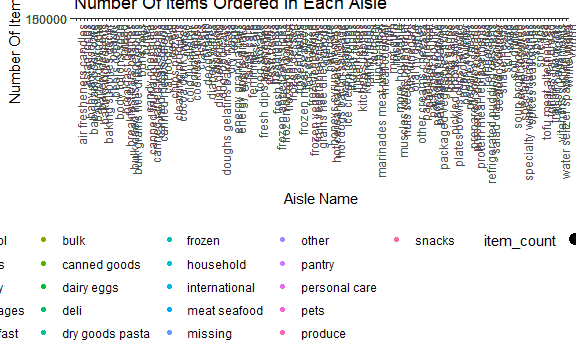
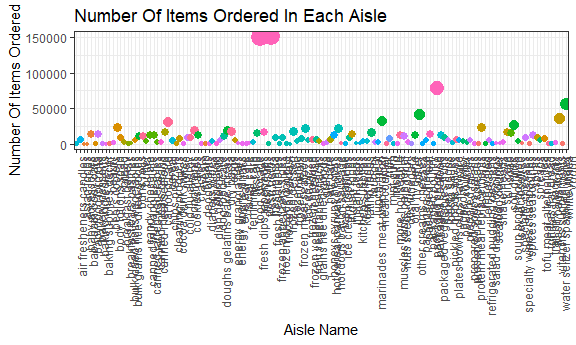
trying to fix plot

diff --git a/p8105_hw3_as5457.md b/p8105_hw3_as5457.md
@@ -10,14 +10,14 @@ Setting global settings for the format of the graphs generated for this homework
 library(tidyverse)
 ```
 
-    ## -- Attaching packages --------------------------------------------------------------------------------- tidyverse 1.2.1 --
+    ## -- Attaching packages ------------------------------------------------------------------- tidyverse 1.2.1 --
 
     ## v ggplot2 3.0.0     v purrr   0.2.5
     ## v tibble  1.4.2     v dplyr   0.7.6
     ## v tidyr   0.8.1     v stringr 1.3.1
     ## v readr   1.1.1     v forcats 0.3.0
 
-    ## -- Conflicts ------------------------------------------------------------------------------------ tidyverse_conflicts() --
+    ## -- Conflicts ---------------------------------------------------------------------- tidyverse_conflicts() --
     ## x dplyr::filter() masks stats::filter()
     ## x dplyr::lag()    masks stats::lag()
 
@@ -274,7 +274,7 @@ insta %>%
     ## 10 bread                              23635
     ## # ... with 124 more rows
 
-Make a plot that shows the number of items ordered in each aisle. Order aisles sensibly, and organize your plot so others can read it.
+**Make a plot that shows the number of items ordered in each aisle. Order aisles sensibly, and organize your plot so others can read it.**
 
 ``` r
 insta %>%
@@ -292,12 +292,12 @@ insta %>%
     title = "Number Of Items Ordered In Each Aisle",
         x = "Aisle Name",
         y = "Number Of Items Ordered"
-  ) + theme(axis.text.x = element_text(angle = 90, hjust = 1), legend.position = "bottom")
+  ) + theme(axis.text.x = element_text(angle = 90, hjust = 1), legend.position = "none")
 ```
 
 <img src="p8105_hw3_as5457_files/figure-markdown_github/unnamed-chunk-11-1.png" width="90%" />
 
-Make a table showing the most popular item in each of the aisles “baking ingredients”, “dog food care”, and “packaged vegetables fruits”.
+**Make a table showing the most popular item in each of the aisles “baking ingredients”, “dog food care”, and “packaged vegetables fruits”.**
 
 ``` r
 insta %>% 
@@ -326,7 +326,7 @@ insta %>%
     ## 2 dog food care       Snack Sticks Chicken & Rice Recip~          30     1
     ## 3 packaged vegetable~ Organic Baby Spinach                      9784     1
 
-Make a table showing the mean hour of the day at which Pink Lady Apples and Coffee Ice Cream are ordered on each day of the week; format this table for human readers (i.e. produce a 2 x 7 table).
+**Make a table showing the mean hour of the day at which Pink Lady Apples and Coffee Ice Cream are ordered on each day of the week; format this table for human readers (i.e. produce a 2 x 7 table).**
 
 ``` r
 insta %>% 
@@ -365,11 +365,11 @@ weather = ny_noaa %>%
   janitor::clean_names(dat = .)
 ```
 
-*The goal is to do some exploration of this dataset. To that end, write a short description of the dataset, noting the size and structure of the data, describing some key variables, and indicating the extent to which missing data is an issue.*
+**The goal is to do some exploration of this dataset. To that end, write a short description of the dataset, noting the size and structure of the data, describing some key variables, and indicating the extent to which missing data is an issue.**
 
 The NY NOAA dataset provides information regarding the weather and precipitation pattern from 1981-01-01 to 2010-12-31. The size of the dataset is \[2,595,176 x 7\] and data are structured with columns providing information on precipitation (rain/snow) and daily temperatures (tmin/tmax). These key variables allow us to analyze the weather patterns in NY over the past decade. There are 145838 missing values for the precipitation colummn and 1134358 missing values for tmax and 1134420 missing values for tmin. Since a large extent of the data are missing, this might be an issue in the analysis of this dataset because we would only be able to restrict our analysis to the specific stations for which data are available.
 
-*Do some data cleaning. Create separate variables for year, month, and day. Ensure observations for temperature, precipitation, and snowfall are given in reasonable units.*
+**Do some data cleaning. Create separate variables for year, month, and day. Ensure observations for temperature, precipitation, and snowfall are given in reasonable units.**
 
 ``` r
 #Creating a new clean dataset called ny_weather
@@ -386,7 +386,7 @@ ny_weather <- weather %>%
   mutate(tmin = as.numeric(tmin)/10)
 ```
 
-*For snowfall, what are the most commonly observed values? Why?*
+**For snowfall, what are the most commonly observed values? Why?**
 
 The most common values observed for snowfall are 0 and null. This is because most days of the year it does not snow and many stations do not collect information on snow.
 
@@ -413,7 +413,7 @@ ny_weather %>%
     ## 10     3    8790
     ## # ... with 272 more rows
 
-*Make a two-panel plot showing the average max temperature in January and in July in each station across years. Is there any observable / interpretable structure? Any outliers?*
+**Make a two-panel plot showing the average max temperature in January and in July in each station across years. Is there any observable / interpretable structure? Any outliers?**
 
 Observing the collection of box plots below, we can see that in general, the average tmax in January is significantly lower in January than in July (as expected). The median of the mean tmax in January mostly falls beetween -5C and +5C whereas in July the values approximately range between 25C and 30C. There are many outliers in the January plot on both ends of the boxplots. In the July plot, however, the outliers are all in the lower tail of the boxplots, meaning that in July tmax can be low for some stations compared to what is expected.
 
@@ -444,7 +444,7 @@ ny_weather %>%
 
 <img src="p8105_hw3_as5457_files/figure-markdown_github/unnamed-chunk-17-1.png" width="90%" />
 
-*Make a two-panel plot showing (i) tmax vs tmin for the full dataset (note that a scatterplot may not be the best option); and (ii) make a plot showing the distribution of snowfall values greater than 0 and less than 100 separately by year.*
+**Make a two-panel plot showing (i) tmax vs tmin for the full dataset (note that a scatterplot may not be the best option); and (ii) make a plot showing the distribution of snowfall values greater than 0 and less than 100 separately by year.**
 
 tmax vs tmin for full dataset
 =============================
